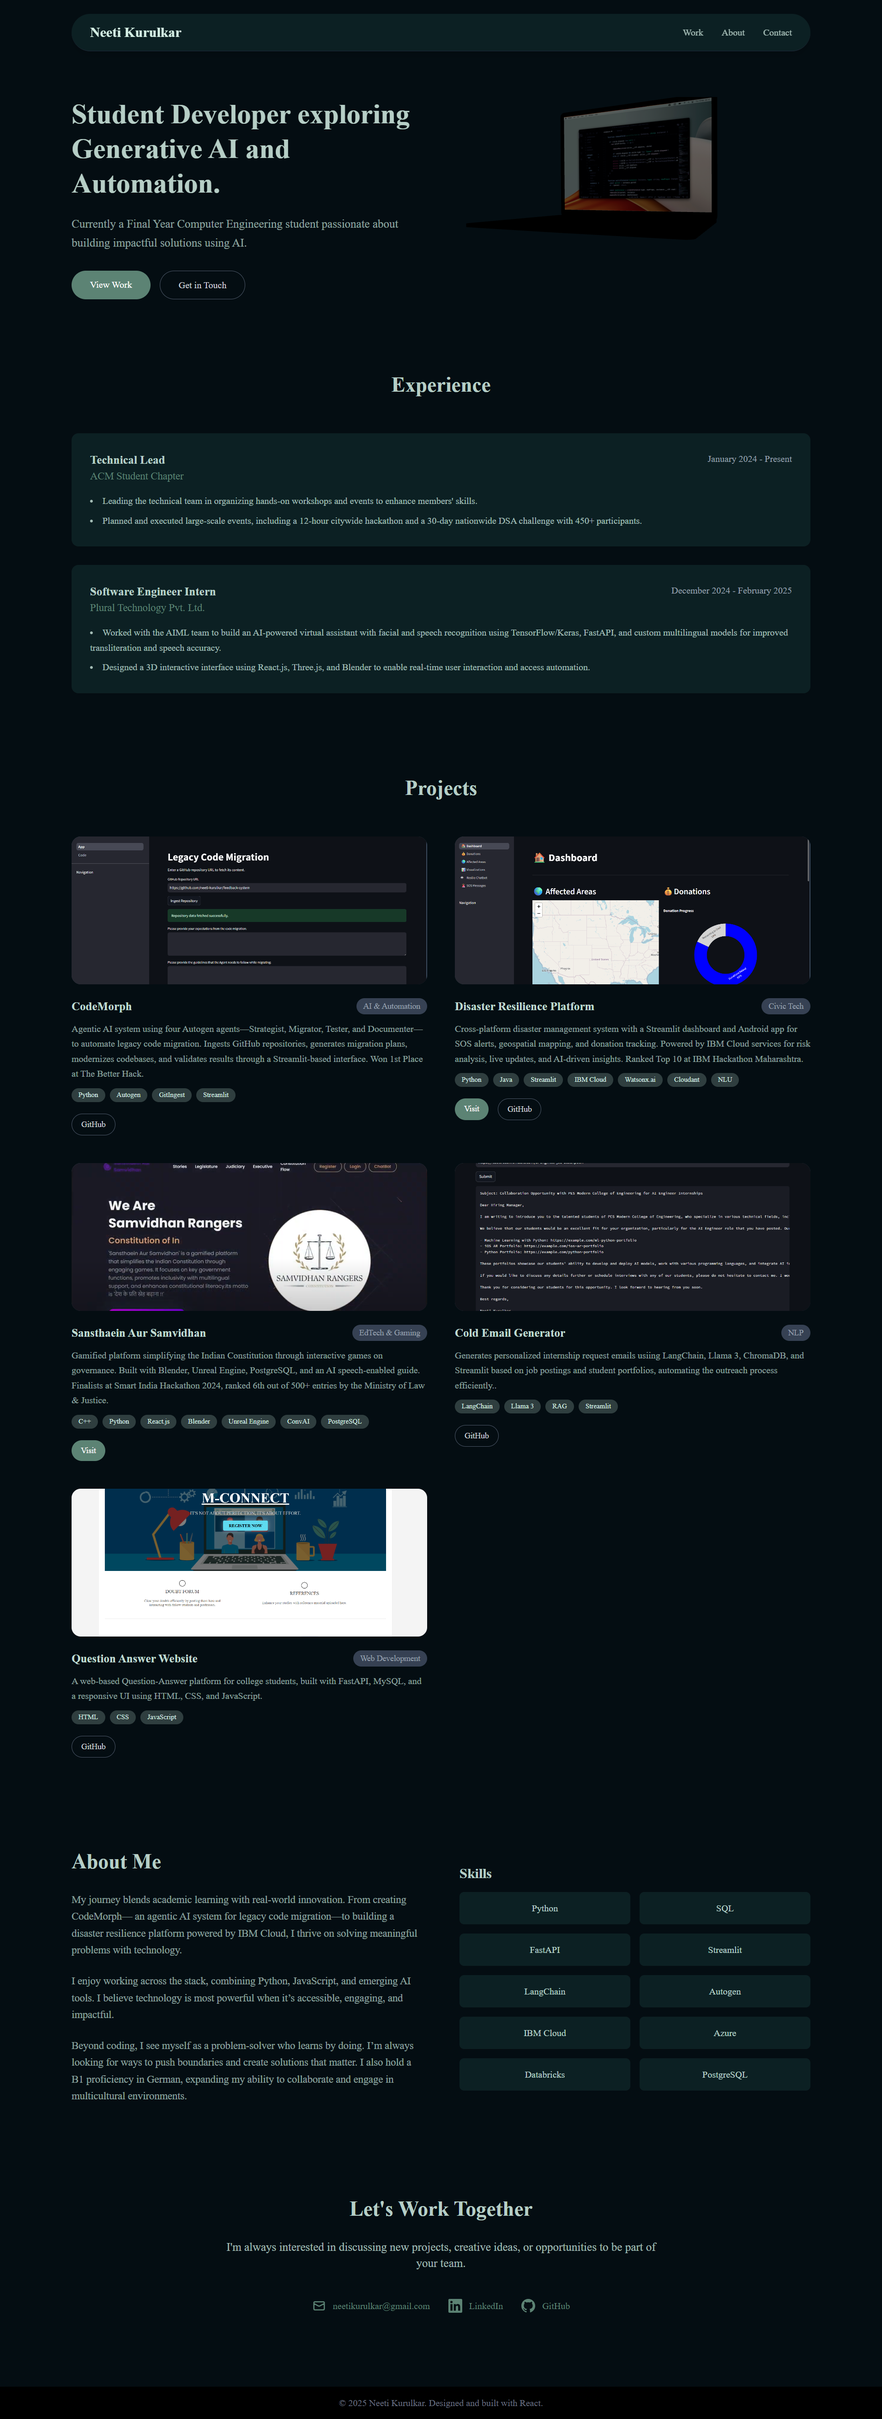
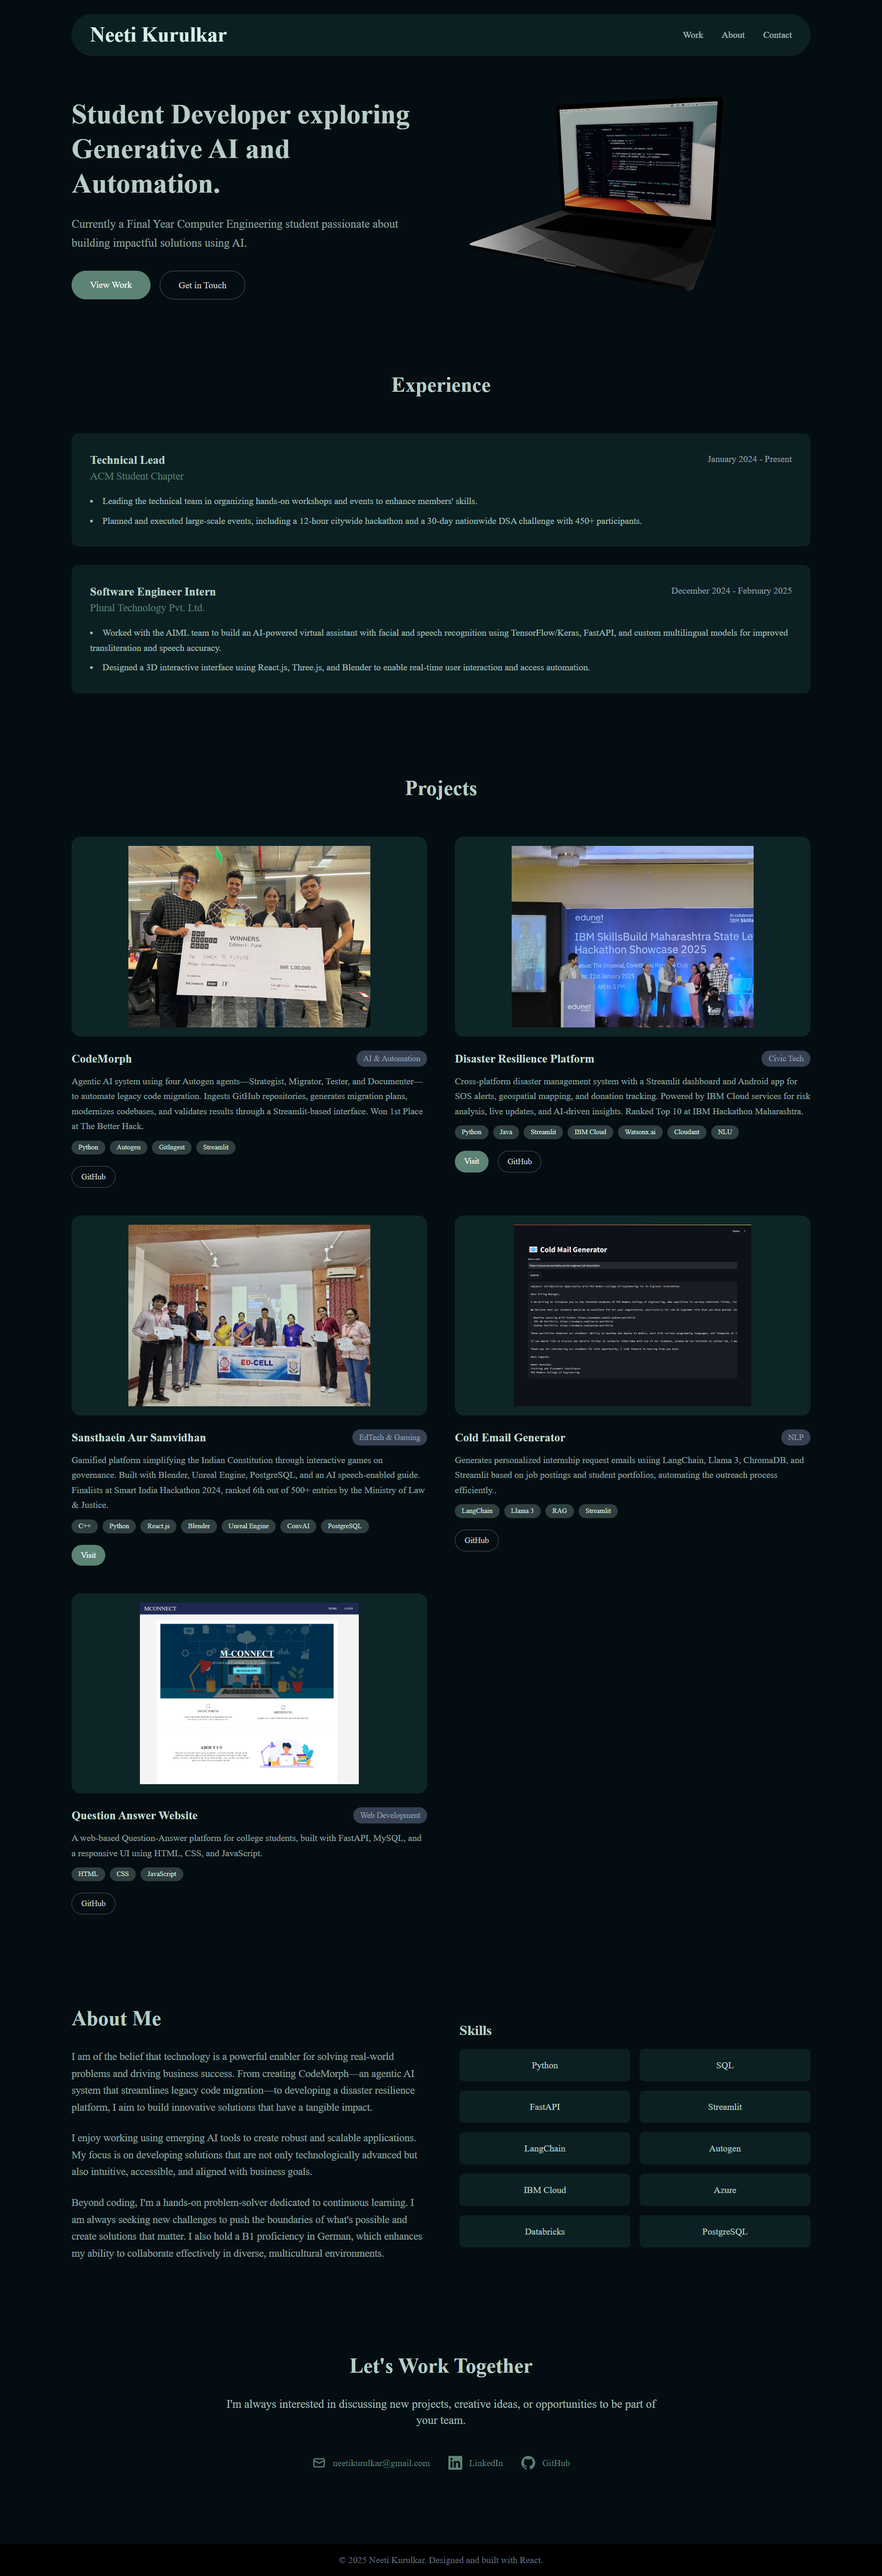
updated images and minor details

diff --git a/src/components/About.jsx b/src/components/About.jsx
@@ -8,19 +8,20 @@ const About = () => {
           <div>
             <h3 className="text-4xl font-bold text-[#D5F0E5]/85 mb-8">About Me</h3>
             <div className="space-y-6 text-lg text-[#D5F0E5]/65 leading-relaxed">
-              <p>
-                My journey blends academic learning with real-world innovation. From creating CodeMorph—
-                an agentic AI system for legacy code migration—to building a disaster resilience platform 
-                powered by IBM Cloud, I thrive on solving meaningful problems with technology.
+              <p>I am of the belief that technology is a powerful enabler 
+                for solving real-world problems and driving business success. From creating 
+                CodeMorph—an agentic AI system that streamlines legacy code migration—to 
+                developing a disaster resilience platform, I aim to build innovative 
+                solutions that have a tangible impact.
               </p>
-              <p>
-                I enjoy working across the stack, combining Python, JavaScript, and emerging AI tools. 
-                I believe technology is most powerful when it’s accessible, engaging, and impactful.
+              <p>I enjoy working using emerging AI tools to create robust and scalable applications. 
+                My focus is on developing solutions that are not only technologically advanced but 
+                also intuitive, accessible, and aligned with business goals.
               </p>
-              <p>
-                Beyond coding, I see myself as a problem-solver who learns by doing. I’m always looking 
-                for ways to push boundaries and create solutions that matter. I also hold a B1 proficiency 
-                in German, expanding my ability to collaborate and engage in multicultural environments.
+              <p>Beyond coding, I'm a hands-on problem-solver dedicated to continuous learning. 
+                I am always seeking new challenges to push the boundaries of what's possible and create 
+                solutions that matter. I also hold a B1 proficiency in German, which enhances my ability 
+                to collaborate effectively in diverse, multicultural environments.
               </p>
 
             </div>

diff --git a/src/components/Projects.jsx b/src/components/Projects.jsx
@@ -7,7 +7,7 @@ const Projects = () => {
       title: "CodeMorph",
       description: "Agentic AI system using four Autogen agents—Strategist, Migrator, Tester, and Documenter—to automate legacy code migration. Ingests GitHub repositories, generates migration plans, modernizes codebases, and validates results through a Streamlit-based interface. Won 1st Place at The Better Hack.",
       category: "AI & Automation",
-      image: "/codemorph.png",
+      image: "/codemorph.jpg",
       tags: ["Python", "Autogen", "GitIngest", "Streamlit"],
       github: "https://github.com/adv-11/TheBetterHack-2025"
     },
@@ -15,7 +15,7 @@ const Projects = () => {
       title: "Disaster Resilience Platform",
       description: "Cross-platform disaster management system with a Streamlit dashboard and Android app for SOS alerts, geospatial mapping, and donation tracking. Powered by IBM Cloud services for risk analysis, live updates, and AI-driven insights. Ranked Top 10 at IBM Hackathon Maharashtra.",
       category: "Civic Tech",
-      image: "/disaster-resilience.png",
+      image: "/disaster-resilience.jpg",
       tags: ["Python", "Java", "Streamlit", "IBM Cloud", "Watsonx.ai", "Cloudant", "NLU"],
       github: "https://github.com/adv-11/Disaster_Resilience_Platform",
       live: "https://disaster-platform-ibm.streamlit.app/"
@@ -24,7 +24,7 @@ const Projects = () => {
       title: "Sansthaein Aur Samvidhan",
       description: "Gamified platform simplifying the Indian Constitution through interactive games on governance. Built with Blender, Unreal Engine, PostgreSQL, and an AI speech-enabled guide. Finalists at Smart India Hackathon 2024, ranked 6th out of 500+ entries by the Ministry of Law & Justice.",
       category: "EdTech & Gaming",
-      image: "/game-pr.png",
+      image: "/samvidhan-rangers.jpg",
       tags: ["C++", "Python", "React.js", "Blender", "Unreal Engine", "ConvAI", "PostgreSQL"],
       live: "https://www.youtube.com/watch?v=txhCER6uMyA",
     },

diff --git a/src/components/ProjectCard.jsx b/src/components/ProjectCard.jsx
@@ -1,22 +1,20 @@
-// src/components/ProjectCard.jsx
-
 import React from 'react';
 
 const ProjectCard = ({ title, description, category, image, tags, github, live }) => {
-  // Helper function to check if the string is likely an image URL
   const isImage = (str) => {
     return typeof str === 'string' && (str.startsWith('http') || str.startsWith('/'));
   };
 
   return (
     <div className="font-[Open_Sans] group cursor-pointer">
-      <div className="bg-[#183D3D] rounded-2xl h-64 mb-6 overflow-hidden">
-        <div className="w-full h-full bg-gradient-to-br from-gray-600 to-gray-800 flex items-center justify-center group-hover:scale-105 transition-transform duration-300">
+      {/* Updated image container with a flexible aspect ratio */}
+      <div className="bg-[#183D3D] rounded-2xl mb-6 overflow-hidden aspect-video">
+        <div className="w-full h-full bg-[#040D12]/50 flex items-center justify-center group-hover:scale-105 transition-transform duration-300">
           {isImage(image) ? (
             <img
               src={image}
               alt={title}
-              className="w-full h-full object-cover"
+              className="w-full h-full object-contain p-4" // Use object-contain and add some padding
             />
           ) : (
             <span className="text-4xl">{image}</span>
@@ -36,7 +34,6 @@ const ProjectCard = ({ title, description, category, image, tags, github, live }
             </span>
           ))}
         </div>
-        {/* New section for links */}
         <div className="flex gap-4 pt-2">
           {live && (
             <a 

diff --git a/src/components/Navigation.jsx b/src/components/Navigation.jsx
@@ -8,7 +8,7 @@ const Navigation = () => {
     <nav className="font-[Open_Sans] fixed top-6 left-1/2 -translate-x-1/2 max-w-7xl w-[95%] bg-[#183D3D]/40 backdrop-blur-lg rounded-full shadow-lg border-b border-gray-800 z-50">
       <div className="mx-auto px-4 sm:px-6 lg:px-8 py-4">
         <div className="flex justify-between items-center">
-          <div className="text-2xl font-bold text-[#D5F0E5]">
+          <div className="text-4xl font-bold text-[#D5F0E5]">
             Neeti Kurulkar
           </div>
 
